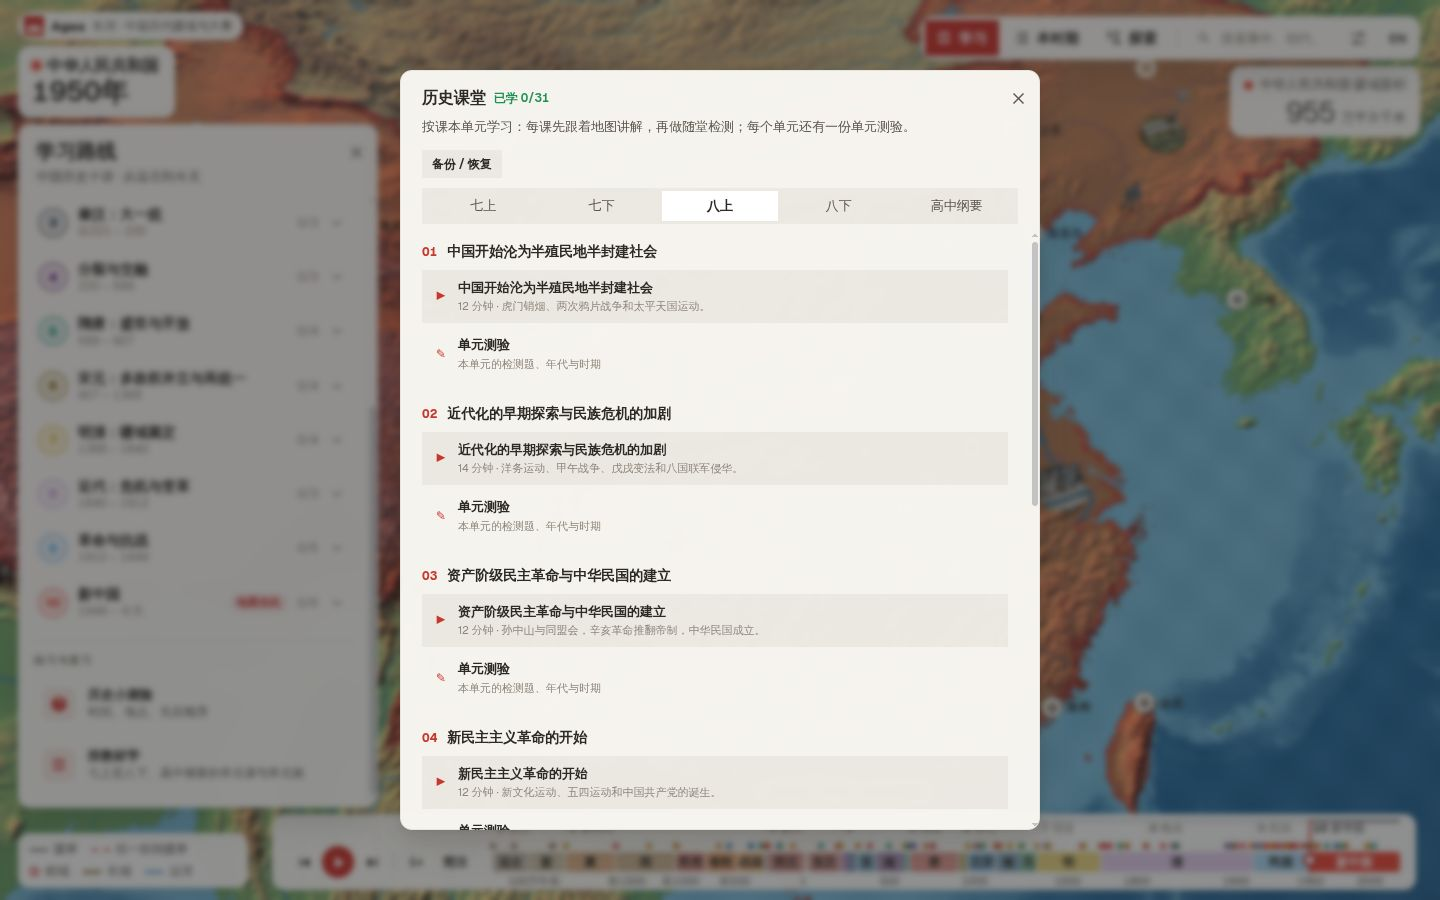
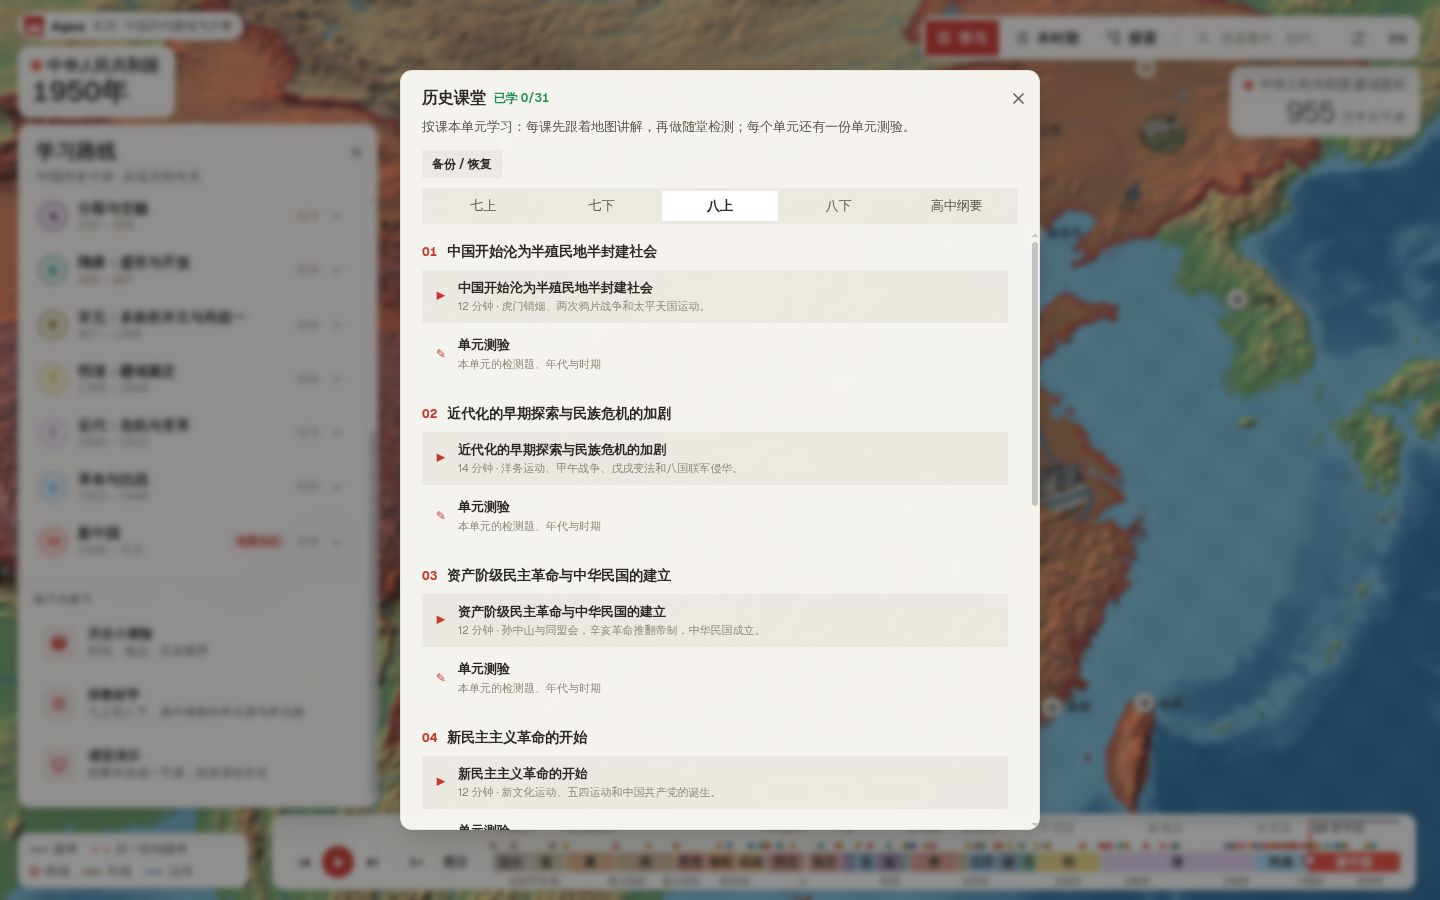
feat(quiz): 读图题 round per chapter — read only that chapter's maps (#3)

diff --git a/src/client/ui/quiz.ts b/src/client/ui/quiz.ts
@@ -60,6 +60,7 @@ export class Quiz {
     this.phase = 'setup';
     this.chapter = null;
     this.extra = [];
+    this.mapRange = null;
     this.atlas.setPickMode(null);
     this.clearMap();
     const mistakeCount = this.progress.mistakes.size;
@@ -101,10 +102,23 @@ export class Quiz {
 
   /** events falling due, asked after the mistakes in today's review */
   private extra: string[] = [];
+  /** a chapter's years, for a round of 读图题 on its maps only */
+  private mapRange: [number, number] | null = null;
+
+  /** A round of 读图题 on one chapter's maps. */
+  startMapChapter(c: Chapter, seed = Date.now()): void {
+    this.chapter = null;
+    this.extra = [];
+    this.mode = 'maps';
+    this.mapRange = c.span;
+    // shown only once the round is allowed (a gated build may refuse it)
+    if (this.start(seed)) this.el.hidden = false;
+  }
 
   /** Today's review: the mistakes queue, then `due` events (alternating when / where), at most 12 questions. */
   startReview(due: string[], seed = Date.now()): void {
     this.chapter = null;
+    this.mapRange = null;
     this.mode = 'mistakes';
     this.extra = due;
     this.el.hidden = false;
@@ -114,6 +128,7 @@ export class Quiz {
   /** Opens the quiz directly in mistake-review mode. */
   startMistakes(seed = Date.now()): void {
     this.chapter = null;
+    this.mapRange = null;
     this.extra = [];
     this.mode = 'mistakes';
     this.el.hidden = false;
@@ -123,6 +138,7 @@ export class Quiz {
   /** Opens the quiz directly filtered to a specific dynasty/era. */
   startEra(eraId: string, seed = Date.now()): void {
     this.chapter = null;
+    this.mapRange = null;
     this.mode = 'events';
     this.book = '';
     this.era = eraId;
@@ -132,6 +148,7 @@ export class Quiz {
 
   /** Opens a learning-path chapter's check. */
   startChapter(c: Chapter, seed = Date.now()): void {
+    this.mapRange = null;
     this.mode = 'events';
     this.chapter = c;
     this.el.hidden = false;
@@ -141,12 +158,13 @@ export class Quiz {
   /** asked before a round of 读图题 (a gated build counts and may refuse it) */
   beforeMaps: () => boolean = () => true;
 
-  start(seed = Date.now()): void {
+  /** Starts a round; false when it was refused (读图题 over a gated build's free limit). */
+  start(seed = Date.now()): boolean {
     const c = this.chapter;
-    if (!c && this.mode === 'maps' && !this.beforeMaps()) return;
+    if (!c && this.mode === 'maps' && !this.beforeMaps()) return false;
     this.qs = c ? makeQuiz(EVENTS, { n: 5, seed, range: c.span, prefer: c.keys })
       : this.mode === 'maps'
-      ? makeMapQuiz({ n: 9, seed })
+      ? makeMapQuiz(this.mapRange ? { n: 6, seed, range: this.mapRange } : { n: 9, seed })
       : this.mode === 'locate'
       ? makeLocateQuiz(PLACES, { n: 10, seed })
       : this.mode === 'mistakes'
@@ -155,6 +173,7 @@ export class Quiz {
     this.i = 0;
     this.score = 0;
     this.ask();
+    return true;
   }
 
   private ask(): void {

diff --git a/tests/e2e/app.spec.ts b/tests/e2e/app.spec.ts
@@ -526,6 +526,23 @@ test.describe('Ages atlas', () => {
     expect(errs).toEqual([]);
   });
 
+  test('读图题 by chapter: a chapter’s map round only shows its own maps', async ({ page }) => {
+    const errs = watchErrors(page);
+    await openApp(page, 'y=700&lang=en');
+    const path = page.locator('[data-testid=path]');
+    if (!(await path.isVisible())) await page.locator('.b-path').click();
+    await path.locator('.pl-head').nth(0).click();
+    await expect(path.locator('[data-act=chapter-maps]')).toHaveCount(0);
+    await path.locator('.pl-head').nth(4).click();
+    await path.locator('[data-act=chapter-maps]').click();
+    await expect(page.locator('.quiz')).toBeVisible();
+    await expect(page.locator('#app')).toHaveClass(/map-blind/);
+    const qs = await page.evaluate(() => (window as any).__atlas.quiz.qs);
+    expect(qs).toHaveLength(6);
+    for (const q of qs) if (q.kind !== 'first') { expect(q.years[0]).toBeGreaterThanOrEqual(581); expect(q.years[0]).toBeLessThanOrEqual(907); }
+    expect(errs).toEqual([]);
+  });
+
   test('mastery: answers raise mastery, the path shows it, my map lights it up and today’s review asks what is due', async ({ page }) => {
     const errs = watchErrors(page);
     // one event practised long ago (due), one missed after being right (weak)

diff --git a/src/client/ui/path.ts b/src/client/ui/path.ts
@@ -35,6 +35,8 @@ export interface PathHooks {
   myMap: (on: boolean) => void;
   /** the weekly report */
   report: () => void;
+  /** a round of 读图题 on a chapter's maps */
+  maps: (c: Chapter) => void;
   /** the classroom playlist, optionally filled with a chapter's events */
   classroom: (c?: Chapter) => void;
   course: () => void;
@@ -262,6 +264,8 @@ export class PathView {
         h('i', { text: this.progress.chapterPassed(c.id) ? '✓' : '?' }),
         h('span', {}, h('b', { text: t('chCheck') }), chk ? h('small', { text: t('pathScore', { r: chk[0], n: chk[1] }) }) : null),
         h('em', { text: chk ? t('again') : t('start') })),
+      // read the chapter's maps (from the first states on)
+      c.span[1] > -2070 ? h('button', { type: 'button', class: 'pl-present pl-maps', 'data-act': 'chapter-maps', onclick: () => this.hooks.maps(c) }, icon('layers'), h('span', { text: t('chMaps') })) : null,
       // for a teacher: the chapter's events as a classroom playlist
       h('button', { type: 'button', class: 'pl-present', 'data-act': 'chapter-present', onclick: () => this.hooks.classroom(c) }, icon('present'), h('span', { text: t('pFromChapter') }))));
     return li;

diff --git a/src/client/app/app.ts b/src/client/app/app.ts
@@ -161,6 +161,7 @@ export class App {
       mistakes: () => this.learn.onReviewMistakes(),
       review: due => this.startReview(due),
       report: () => this.report.toggle(true),
+      maps: c => this.startChapterMaps(c),
       classroom: c => { if (c) this.classroom.fromChapter(c); this.classroom.toggle(true); },
       myMap: on => { this.refocus(); if (on) { this.closeCard(); void this.atlas.home(); } },
       course: () => this.learn.toggle(true),
@@ -558,6 +559,16 @@ export class App {
   }
 
   /** A learning-path chapter's check, over the path; closing it returns to the path. */
+  /** A round of 读图题 on a chapter's maps. */
+  startChapterMaps(c: Chapter): void {
+    this.timeline.setPlaying(false);
+    this.stopStory();
+    this.closeCard();
+    this.lesson.stop();
+    this.quiz.startMapChapter(c);
+    this.root.classList.toggle('quiz-on', this.quiz.open);
+  }
+
   /** Today's review from the learning path: the mistakes, then the events falling due. */
   startReview(due: string[]): void {
     this.timeline.setPlaying(false);

diff --git a/src/client/lib/i18n.ts b/src/client/lib/i18n.ts
@@ -191,6 +191,7 @@ const S = {
   proTry: { zh: '在这台设备上试用 Pro', en: 'Try Pro on this device' },
   proLater: { zh: '以后再说', en: 'Not now' },
   proNote: { zh: '预览版：还没有开通付费，试用会一直保留在这台设备上。', en: 'Preview: payment is not open yet; trying Pro stays on this device.' },
+  chMaps: { zh: '读图练习：认出本讲的地图', en: 'Read this chapter’s maps' },
   mapA: { zh: '地图 A', en: 'Map A' },
   mapB: { zh: '地图 B', en: 'Map B' },
   mapHint: { zh: '地图上的名字和年份已隐藏，只看疆域和地形。', en: 'Names and the year are hidden: read the borders and the land.' },
